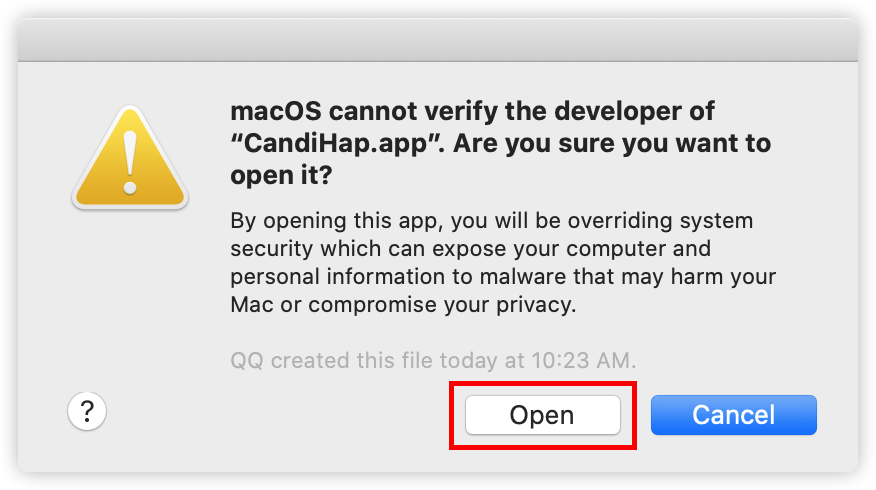
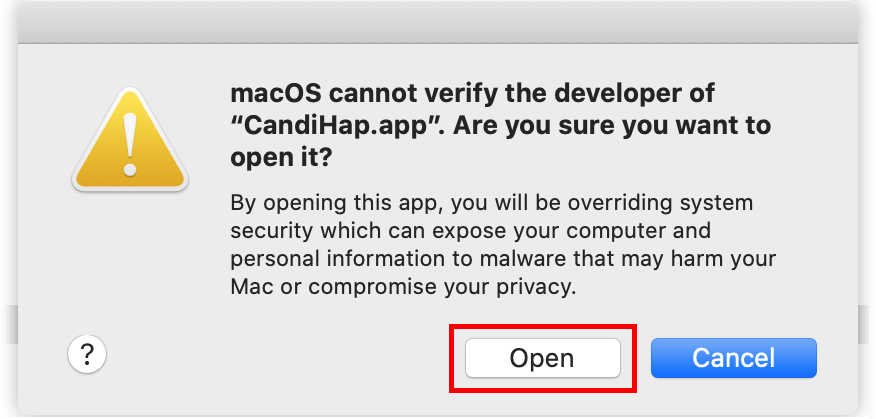
upload

diff --git a/Sanger_ab1_Linux/README.md b/Sanger_ab1_Linux/README.md
@@ -1,6 +1,9 @@
 # CandiHap: a haplotype analysis toolkit for natural variation study.
-# Haplotype analysis in Sanger __`.ab1`__ files (Linux system)
-First of all, please install __`GATK`__ (GenomeAnalysisTK.jar), __`Picard`__ (picard.jar), __`bwa`__, __`samtools`__, __`bcftools`__, __`bgzip`__, __`java`__ and __`R`__ (with sangerseqR)</br></br>
+
+<img src="https://github.com/xukaili/CandiHap/blob/master/Figures/logo_mac.gif" width="100" height="100">
+
+# Haplotype analysis for Sanger __`.ab1`__ files on Linux system
+First of all, please install __`GATK`__ (GenomeAnalysisTK.jar), __`Picard`__ (picard.jar), __`bwa`__, __`samtools`__, __`bcftools`__, __`bgzip`__, __`java`__ and __`R`__ (with sangerseqR).</br></br>
 
 ## Download:
 **Software**:      [GitHub](https://github.com/xukaili/CandiHap/raw/master/Sanger_ab1_Linux/sanger_CandiHap-1.0.1.zip)                [Google Drive](https://drive.google.com/file/d/1QgVMbSYx27_j_OYzu5OWWRshSehsoZkJ/view?usp=sharing)                [Baidu Pan](https://pan.baidu.com/s/1ShMMMNogsJNdx3GOyMIj_w):   access_code: **zuqy**</br>
@@ -21,7 +24,7 @@ __`Commercial users`__ must obtain a commercial license from Xukai Li.</br>
       3. Select a CRAN location (a __`mirror site`__) and click the corresponding link.</br>
       4. Click on the '__`Download R for Linux`__' link at the top of the page.</br>
       5. Click on Download '__`R-3.5.0`__' (or a newer version).</br>
-      6. Install R. Leave all default settings in the installation options.</br>
+      6. Install R and leave all default settings in the installation options.</br>
       7. Open R and install the package by command: </br>
           __`if (! requireNamespace("BiocManager", quietly = TRUE)) install.packages("BiocManager")`__</br>
           __`if (! require("sangerseqR")) BiocManager::install("sangerseqR")`__</br>
@@ -36,7 +39,7 @@ e.g. sh  sanger_CandiHap.sh  PHYC.txt
 
 <img src="https://github.com/xukaili/CandiHap/blob/master/Figures/Sanger_Figure.png">
 
-**Fig. 1 | Overview of the sanger_CandiHap process. a,** General scheme of the process from Sanger __`.ab1`__ files. **b,** PeakTrace of ab1 images of three main genotypes. **c,** The statistics of haplotypes. </br>
+**Fig. 1 | Overview of the sanger_CandiHap process. a,** General scheme of the process from Sanger __`.ab1`__ files. **b,** PeakTrace of ab1 images of three main genotypes. **c,** The statistics of haplotypes. </br></br>
 
 ## Contact information
 In the future, **CandiHap** will be regularly updated, and extended to fulfill more functions with more user-friendly options.</br>

diff --git a/Mac_OS_X/README.md b/Mac_OS_X/README.md
@@ -24,7 +24,7 @@ __`Commercial users`__ must obtain a commercial license from Xukai Li.</br>
       3. Select a CRAN location (a __`mirror site`__) and click the corresponding link.</br>
       4. Click on the '__`Download R for (Mac) OS X`__' link at the top of the page.</br>
       5. Click on Download '__`R-3.5.0.pkg`__' (or a newer version).</br>
-      6. Install R. Leave all default settings in the installation options.</br>
+      6. Install R and leave all default settings in the installation options.</br>
       7. Open R and install three packages by command: </br>
           __`install.packages(c("ggplot2", "agricolae", "pegas"))`__</br>
 </br>
@@ -38,8 +38,8 @@ You can open the app and override the block. Here's how:</br>
       4. You’ll be asked one more time, and clicking '__`Open`__'.</br>
 
 <img src="https://github.com/xukaili/CandiHap/blob/master/Figures/Mac_ReadMe_1.png"  height="200">
-<img src="https://github.com/xukaili/CandiHap/blob/master/Figures/Mac_ReadMe_2.png"  height="650">
-<img src="https://github.com/xukaili/CandiHap/blob/master/Figures/Mac_ReadMe_3.png"  height="200">
+<img src="https://github.com/xukaili/CandiHap/blob/master/Figures/Mac_ReadMe_2.png"  height="450">
+<img src="https://github.com/xukaili/CandiHap/blob/master/Figures/Mac_ReadMe_3.png"  height="230">
 </br>
 
 ## Contact information

diff --git a/Linux/README.md b/Linux/README.md
@@ -24,7 +24,7 @@ __`Commercial users`__ must obtain a commercial license from Xukai Li.</br>
       3. Select a CRAN location (a __`mirror site`__) and click the corresponding link.</br>
       4. Click on the '__`Download R for Linux`__' link at the top of the page.</br>
       5. Click on Download '__`R-3.5.0`__' (or a newer version).</br>
-      6. Install R. Leave all default settings in the installation options.</br>
+      6. Install R and leave all default settings in the installation options.</br>
       7. Open R and install three packages by command: </br>
           __`install.packages(c("ggplot2", "agricolae", "pegas"))`__</br>
 </br>
